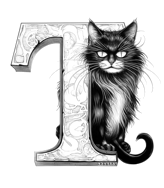
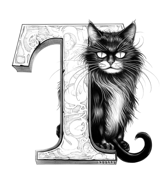
Adjustments to dropcats (T light)

Changed region(s): [[0.061, 0.0798, 0.9451, 0.9043], [0.3659, 0.266, 0.3963, 0.3989], [0.9146, 0.4255, 0.9451, 0.4787]]

diff --git a/js/head-GENERATED.js b/js/head-GENERATED.js
@@ -3736,18 +3736,18 @@ GW.assetVersions = {
 	"/static/font/drop-cap/dropcat/light/Q-8-small-2x.png": "1698262535",
 	"/static/font/drop-cap/dropcat/light/Q-9-small-1x.png": "1698162541",
 	"/static/font/drop-cap/dropcat/light/Q-9-small-2x.png": "1698162541",
-	"/static/font/drop-cap/dropcat/light/T-1-small-1x.png": "1698156177",
-	"/static/font/drop-cap/dropcat/light/T-1-small-2x.png": "1698156177",
-	"/static/font/drop-cap/dropcat/light/T-2-small-1x.png": "1698156177",
-	"/static/font/drop-cap/dropcat/light/T-2-small-2x.png": "1698156178",
-	"/static/font/drop-cap/dropcat/light/T-3-small-1x.png": "1698156178",
-	"/static/font/drop-cap/dropcat/light/T-3-small-2x.png": "1698156178",
-	"/static/font/drop-cap/dropcat/light/T-4-small-1x.png": "1698156179",
-	"/static/font/drop-cap/dropcat/light/T-4-small-2x.png": "1698156179",
-	"/static/font/drop-cap/dropcat/light/T-5-small-1x.png": "1698156402",
-	"/static/font/drop-cap/dropcat/light/T-5-small-2x.png": "1698156402",
-	"/static/font/drop-cap/dropcat/light/T-6-small-1x.png": "1698156181",
-	"/static/font/drop-cap/dropcat/light/T-6-small-2x.png": "1698156181",
-	"/static/font/drop-cap/dropcat/light/T-7-small-1x.png": "1698156558",
-	"/static/font/drop-cap/dropcat/light/T-7-small-2x.png": "1698156558"
+	"/static/font/drop-cap/dropcat/light/T-1-small-1x.png": "1698287305",
+	"/static/font/drop-cap/dropcat/light/T-1-small-2x.png": "1698287305",
+	"/static/font/drop-cap/dropcat/light/T-2-small-1x.png": "1698287304",
+	"/static/font/drop-cap/dropcat/light/T-2-small-2x.png": "1698287304",
+	"/static/font/drop-cap/dropcat/light/T-3-small-1x.png": "1698287304",
+	"/static/font/drop-cap/dropcat/light/T-3-small-2x.png": "1698287304",
+	"/static/font/drop-cap/dropcat/light/T-4-small-1x.png": "1698287304",
+	"/static/font/drop-cap/dropcat/light/T-4-small-2x.png": "1698287304",
+	"/static/font/drop-cap/dropcat/light/T-5-small-1x.png": "1698287304",
+	"/static/font/drop-cap/dropcat/light/T-5-small-2x.png": "1698287304",
+	"/static/font/drop-cap/dropcat/light/T-6-small-1x.png": "1698287304",
+	"/static/font/drop-cap/dropcat/light/T-6-small-2x.png": "1698287304",
+	"/static/font/drop-cap/dropcat/light/T-7-small-1x.png": "1698287304",
+	"/static/font/drop-cap/dropcat/light/T-7-small-2x.png": "1698287305"
 };

diff --git a/js/asset-versions-GENERATED.js b/js/asset-versions-GENERATED.js
@@ -170,18 +170,18 @@ GW.assetVersions = {
 	"/static/font/drop-cap/dropcat/light/Q-8-small-2x.png": "1698262535",
 	"/static/font/drop-cap/dropcat/light/Q-9-small-1x.png": "1698162541",
 	"/static/font/drop-cap/dropcat/light/Q-9-small-2x.png": "1698162541",
-	"/static/font/drop-cap/dropcat/light/T-1-small-1x.png": "1698156177",
-	"/static/font/drop-cap/dropcat/light/T-1-small-2x.png": "1698156177",
-	"/static/font/drop-cap/dropcat/light/T-2-small-1x.png": "1698156177",
-	"/static/font/drop-cap/dropcat/light/T-2-small-2x.png": "1698156178",
-	"/static/font/drop-cap/dropcat/light/T-3-small-1x.png": "1698156178",
-	"/static/font/drop-cap/dropcat/light/T-3-small-2x.png": "1698156178",
-	"/static/font/drop-cap/dropcat/light/T-4-small-1x.png": "1698156179",
-	"/static/font/drop-cap/dropcat/light/T-4-small-2x.png": "1698156179",
-	"/static/font/drop-cap/dropcat/light/T-5-small-1x.png": "1698156402",
-	"/static/font/drop-cap/dropcat/light/T-5-small-2x.png": "1698156402",
-	"/static/font/drop-cap/dropcat/light/T-6-small-1x.png": "1698156181",
-	"/static/font/drop-cap/dropcat/light/T-6-small-2x.png": "1698156181",
-	"/static/font/drop-cap/dropcat/light/T-7-small-1x.png": "1698156558",
-	"/static/font/drop-cap/dropcat/light/T-7-small-2x.png": "1698156558"
+	"/static/font/drop-cap/dropcat/light/T-1-small-1x.png": "1698287305",
+	"/static/font/drop-cap/dropcat/light/T-1-small-2x.png": "1698287305",
+	"/static/font/drop-cap/dropcat/light/T-2-small-1x.png": "1698287304",
+	"/static/font/drop-cap/dropcat/light/T-2-small-2x.png": "1698287304",
+	"/static/font/drop-cap/dropcat/light/T-3-small-1x.png": "1698287304",
+	"/static/font/drop-cap/dropcat/light/T-3-small-2x.png": "1698287304",
+	"/static/font/drop-cap/dropcat/light/T-4-small-1x.png": "1698287304",
+	"/static/font/drop-cap/dropcat/light/T-4-small-2x.png": "1698287304",
+	"/static/font/drop-cap/dropcat/light/T-5-small-1x.png": "1698287304",
+	"/static/font/drop-cap/dropcat/light/T-5-small-2x.png": "1698287304",
+	"/static/font/drop-cap/dropcat/light/T-6-small-1x.png": "1698287304",
+	"/static/font/drop-cap/dropcat/light/T-6-small-2x.png": "1698287304",
+	"/static/font/drop-cap/dropcat/light/T-7-small-1x.png": "1698287304",
+	"/static/font/drop-cap/dropcat/light/T-7-small-2x.png": "1698287305"
 };

diff --git a/include/inlined-head.html b/include/inlined-head.html
@@ -912,5 +912,5 @@ a[data-link-icon-type*='svg'] .link-icon-hook::after {
 }
 </style>
 <link rel="stylesheet" href="/static/css/head.css?v=1698263740">
-<script src="/static/js/head.js?v=1698286074"></script>
+<script src="/static/js/head.js?v=1698287343"></script>
 <link rel="preload" href="/static/img/icon/icons.svg?v=1698021605" as="image">
